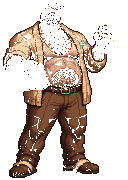
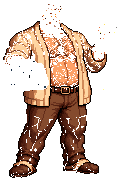
Somsak love scene; real middle stages for Ton and Ming
Claude-Session: https://claude.ai/code/session_01VCzUnoAUkKZrLg4uFbhBUz

diff --git a/web/index.html b/web/index.html
@@ -2584,6 +2584,9 @@ const LOVE = {
   ben: { cg: ['art/cg/ben_1.png', 'art/cg/ben_2.png'],
     a: ['ไฟในเตาผิงปะทุเบาๆ บิ๊กเบนนอนตะแคงรออยู่บนผ้าห่มลายสก๊อต', 'ข้าแบกทุกอย่างมาทั้งชีวิต… คืนนี้ขอวางลงสักครั้งได้ไหม', 'เข้ามาใกล้ๆ สิ… มือข้าหยาบหน่อยนะ แต่ข้าจะเบามือ'],
     b: ['แสงเช้าลอดหน้าต่างกระท่อม เสียงนกร้องอยู่ไกลๆ', 'อรุณสวัสดิ์… ข้าไม่ได้หลับลึกแบบนี้มาหลายปีแล้ว', 'อยู่ต่ออีกหน่อยนะ ไม่ต้องรีบไปไหนหรอก'] },
+  somsak: { cg: ['art/cg/somsak_1.png', 'art/cg/somsak_2.png'],
+    a: ['ออฟฟิศเงียบสนิท เหลือแค่ไฟเมืองกับเสียงแอร์', 'ล-ลุงไม่เคยให้ใครเห็นแบบนี้มาก่อนเลยนะ… อย่าหัวเราะล่ะ', 'มานั่งตรงนี้สิ… ลุงอยากให้คืนนี้เป็นโอทีที่คุ้มที่สุดในชีวิต'],
+    b: ['ฟ้าเริ่มสางหลังมู่ลี่ แว่นของลุงเอียงอยู่บนจมูก', 'เช้าแล้วเหรอ… ลุงไม่อยากให้ใครมาเข้างานเลยวันนี้', 'เรากลับไปนอนต่อที่ห้องลุงดีไหม… ลุงทำข้าวต้มเป็นนะ'] },
 };
 async function playLove(id) {
   const L = LOVE[id]; if (!L) return;

diff --git a/art/build_art.py b/art/build_art.py
@@ -8,8 +8,8 @@ CHARS = {
   'jompon': ('chars/jompon_A_0.png', 'chars/jompon_A1b_0.png', 'chars/jompon_B_0.png'),
   'dave':   ('chars/dave_A_0.png', 'chars/dave_A1_0.png', 'chars/dave_B2_0.png'),
   'champ':  ('chars/champ_A_0.png', 'chars/champ_A1n_0.png', 'chars/champ_B_0.png'),
-  'ton':    ('chars/ton_A_0.png', 'chars/ton_A_0.png', 'chars/ton_B_0.png'),
-  'ming':   ('chars/ming_A_0.png', 'chars/ming_A_0.png', 'chars/ming_B_0.png'),
+  'ton':    ('chars/ton_A_0.png', 'chars/ton_A1m_0.png', 'chars/ton_B_0.png'),
+  'ming':   ('chars/ming_A_0.png', 'chars/ming_A1m_0.png', 'chars/ming_B_0.png'),
   'jay':    ('chars/jay_A2_0.png', 'chars/jay_A2_0.png', 'chars/jay_B_0.png'),
   'dan':    ('chars/dan_A_0.png', 'chars/dan_A1_0.png', 'chars/dan_B5_0.png'),
   'fah':    ('chars/fah_A_0.png', 'chars/fah_A_0.png', 'chars/fah_Bp_0.png'),

diff --git a/docs/ROADMAP.md b/docs/ROADMAP.md
@@ -194,7 +194,7 @@ Cross-time legends (user idea 2026-11-20). These fit the story: the Spire pulls 
   - Tech: a 'love' overlay with CG images (PixelLab pro-flash, 160×120 landscape, ~6 gens per CG).
   - Replay from the collection book (♥♥♥ hunks get a "ฉากรัก" button).
   - Start with 3 hunks (ben, tiger, somsak), then 2 hunks per art iteration.
-  - DONE: system (LOVE table, playLove overlay with Ken Burns CGs, sauna unlock at ♥♥♥, replay button in the book, SV.loveSeen) and ben's 2 CGs (cabin bed by the fireplace → morning with a sheet). Generator: /tmp/claude-0/gencg.py at 176×128 with refs/ref1_crop.png (the style ref must not be larger than the canvas). TODO: tiger, somsak, then more.
+  - DONE: system (LOVE table, playLove overlay with Ken Burns CGs, sauna unlock at ♥♥♥, replay button in the book, SV.loveSeen) and ben's 2 CGs (cabin bed by the fireplace → morning with a sheet). Generator: /tmp/claude-0/gencg.py at 176×128 with refs/ref1_crop.png (the style ref must not be larger than the canvas). Somsak done (office desk at night → couch at dawn). Tiger CG rejected: the face read too young even though he is an adult, so redo it with strong adult cues (late twenties, stubble, mature jaw, scar). TODO: tiger, then more.
 - [ ] 10. Floor 7: Vael (2 phases) + 3 endings.
 
 ## Done
@@ -219,4 +219,5 @@ Cross-time legends (user idea 2026-11-20). These fit the story: the Spire pulls 
   - Pass 4b (balance), 09:47: story sim 20 → battle 75%, elite 50%, boss 50% (an earlier 0% on 10 games was noise); duel sim fine. User feedback: Fah's final stage was less sexy than stage A (no underwear peeking), so his B is now the towel slipping with blue briefs showing. 
   - Pass 5b (visual), 10:32: user rule 'final stage at least as sexy as earlier stages' applied to the new hunks: rope mage B redone as a thong showing the butt plus a glowing rope harness; Dracula A1 cape restored. 
   - Pass 6b (content), 11:13: BOND_LINE added for chueak, dracula, arthur, ace, kan, max, kong. 
-  - Pass 7b (perf), 11:52: CG images are about 20–30KB each; no errors in smoke/meta/love tests. Next pass: 1 (art).
+  - Pass 7b (perf), 11:52: CG images are about 20–30KB each; no errors in smoke/meta/love tests. 
+  - Pass 1c (art), 12:30: real middle stages for ton (cardigan open, hairy belly; held shirt and sparkles kept this time) and ming (shirt off the shoulder, trousers sagging over red briefs, rear view). Remaining: jay, q; champ B redo per the user rule. Next pass: 2 (game feel).
